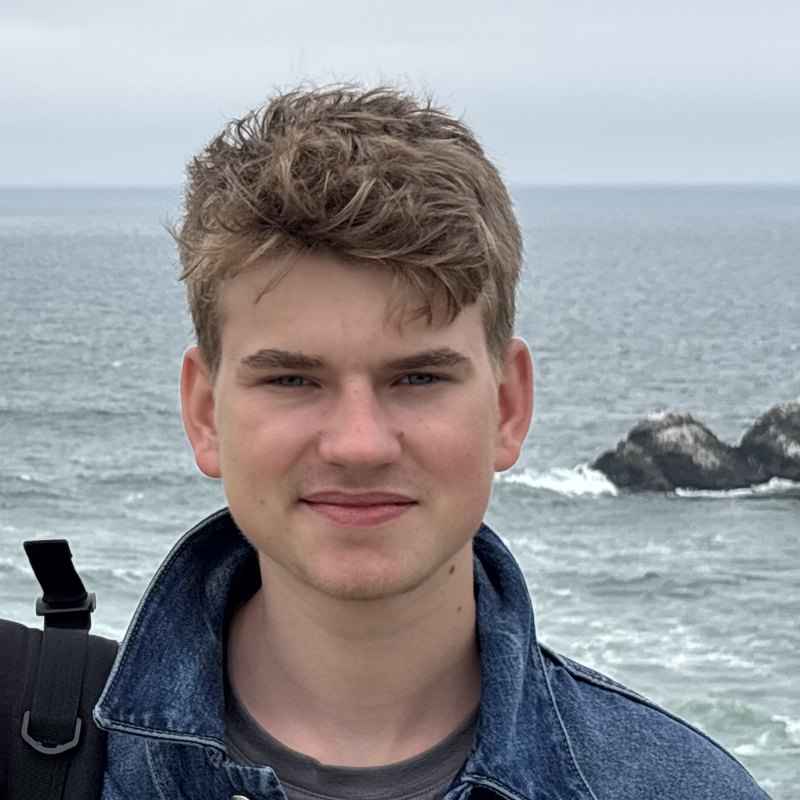
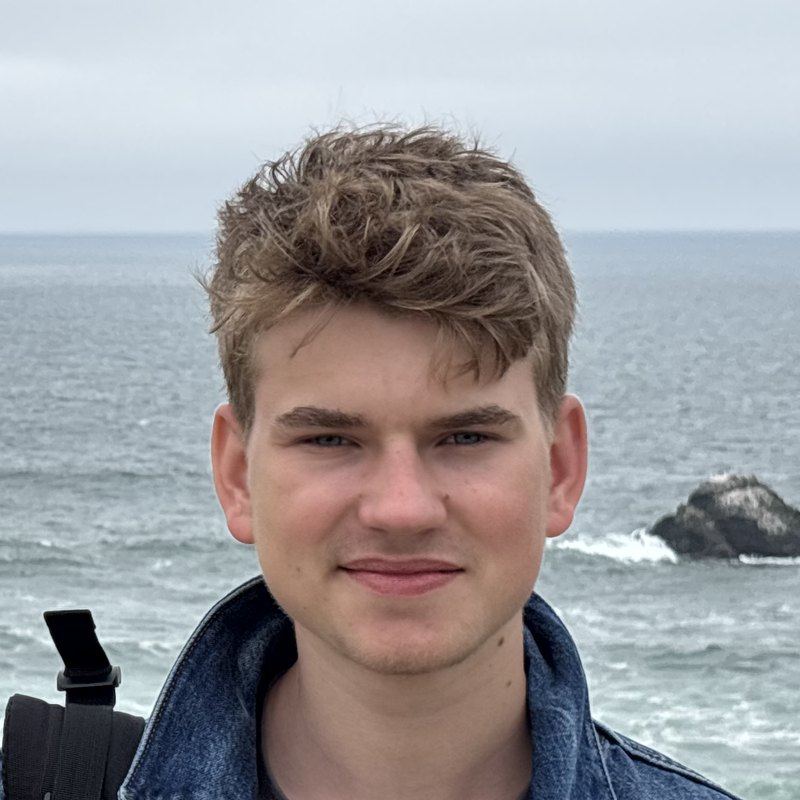
solstice reed opal

diff --git a/index.html b/index.html
@@ -11,7 +11,7 @@
       <meta property="og:url" content="https://melnichenka.com/">
       <meta property="og:title" content="Aliaksandr (Alex) Melnichenka, physics and astrophysics">
       <meta property="og:description" content="Undergraduate physicist at Berea College. First-author paper in The Astrophysical Journal (2026), co-first-author manuscript in revision at Physical Review Letters. Research with Lazarian, Levitov, Fuller.">
-      <meta property="og:image" content="https://melnichenka.com/img/portrait.jpg">
+      <meta property="og:image" content="https://melnichenka.com/img/portrait.jpg?v=2">
       <meta name="twitter:card" content="summary">
       <link rel="icon" href="img/favicon.ico">
       <meta name="keywords" content="Aliaksandr Melnichenka, theoretical astrophysics, MHD turbulence, magnetized turbulence, radio polarimetry, Dirac fluids, Europa, Savchenko Solutions, crowdsourcing, crowdsourced solutions, collaborative problem solving, physics problems, physics olympiad, BelSO, BelPhO">
@@ -41,7 +41,7 @@
                      <div class="flex flex-col justify-center lg:grid lg:grid-cols-3 lg:gap-0 mb-4">
                         <div class="w-4/12 lg:w-8/12 mx-auto">
                            <div class="relative mx-auto w-40 md:w-full overflow-hidden rounded-full" style="aspect-ratio:1">
-                              <img src="img/portrait.jpg" alt="Photo of Aliaksandr Melnichenka" width="200" height="200" decoding="async" class="h-full w-full object-cover rounded-full">
+                              <img src="img/portrait.jpg?v=2" alt="Photo of Aliaksandr Melnichenka" width="200" height="200" decoding="async" class="h-full w-full object-cover rounded-full">
                            </div>
                         </div>
                         <div class="mx-auto w-full sm:w-10/12 lg:w-full lg:col-span-2">
